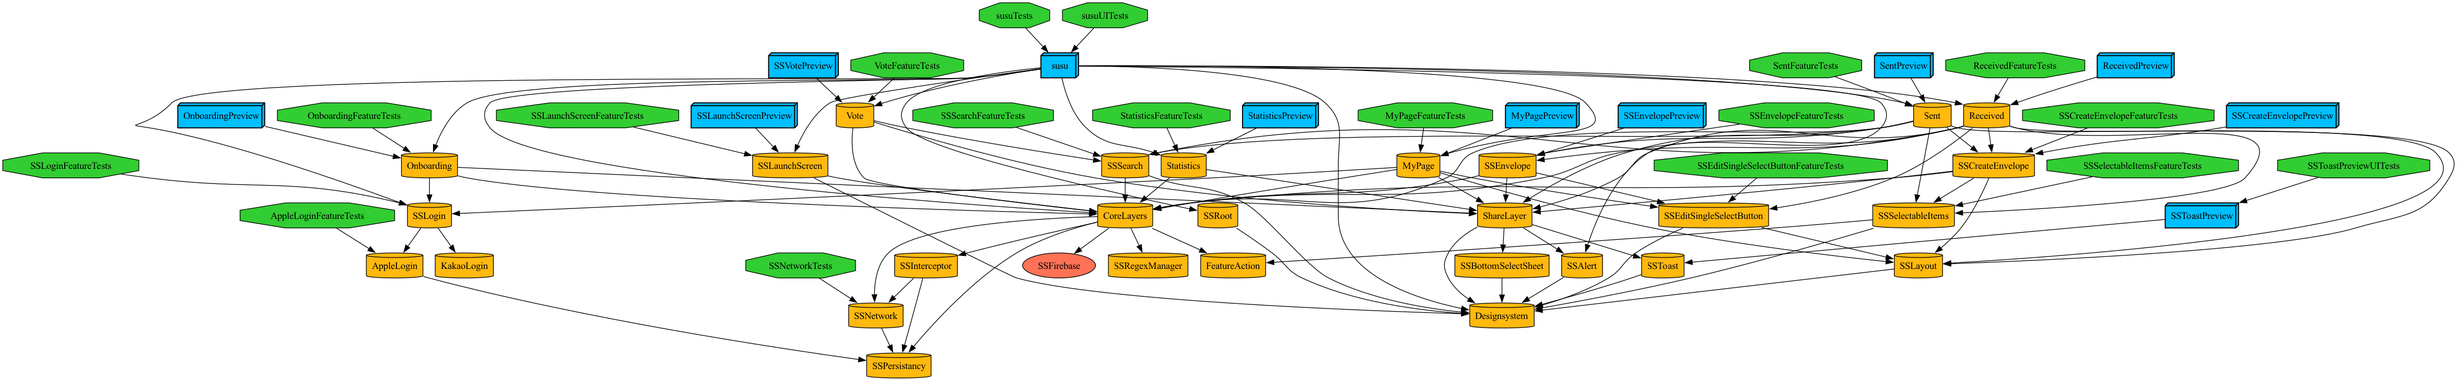
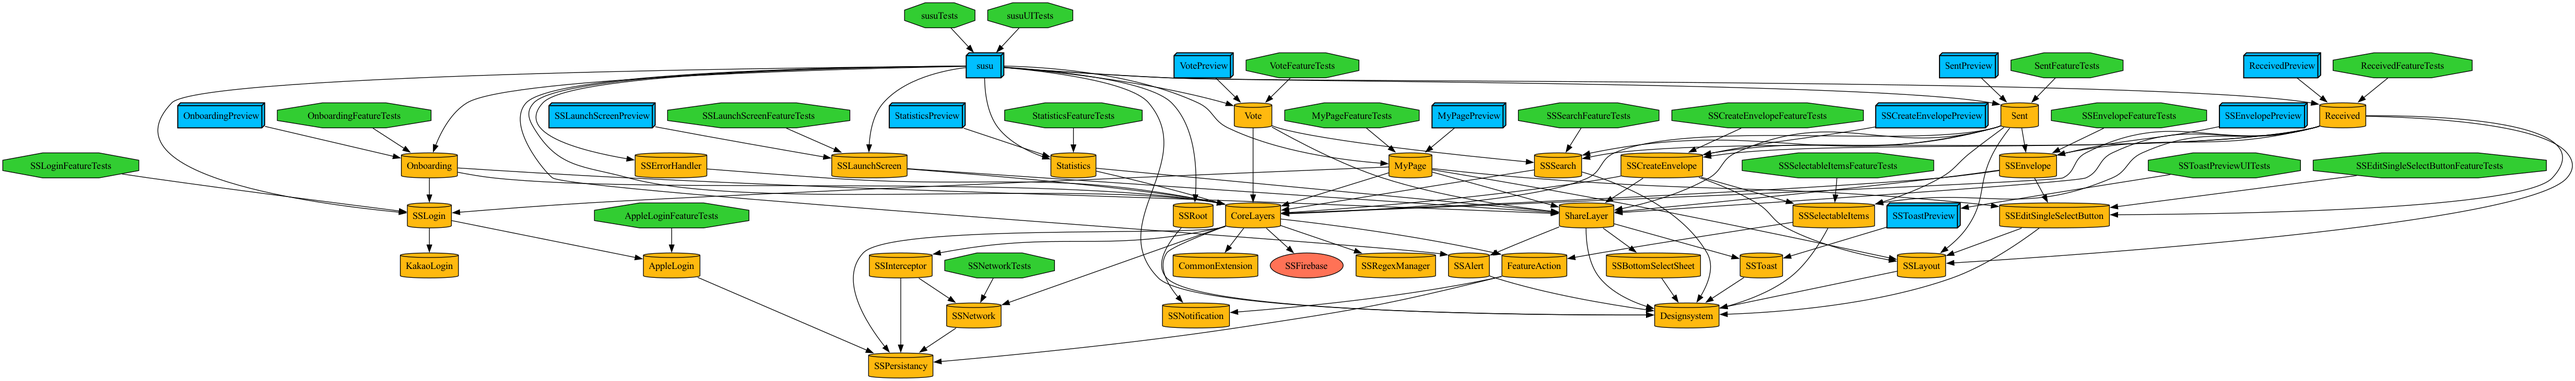
[Deploy] 1.0.5 버전 배포  (#596)
* [Feature] FireBaseanalytics Error Handler 작성 #594

* prj: update build version

* chore: apply swift-format

* feat: update graph, errorHandler feature dependencies

diff --git a/Projects/Feature/SSErrorHandler/Sources/FireBaseErrorHandler.swift b/Projects/Feature/SSErrorHandler/Sources/FireBaseErrorHandler.swift
@@ -1,0 +1,55 @@
+//
+//  FireBaseErrorHandler.swift
+//  SSErrorHandler
+//
+//  Created by MaraMincho on 9/26/24.
+//  Copyright © 2024 com.oksusu. All rights reserved.
+//
+
+import Combine
+import FirebaseAnalytics
+import Foundation
+import OSLog
+import SSNotification
+
+// MARK: - FireBaseErrorHandler
+
+public final class FireBaseErrorHandler {
+  public static let shared = FireBaseErrorHandler()
+  var subscription: AnyCancellable?
+  private init() {}
+
+  public func registerFirebaseLogSystem() {
+    subscription = NotificationCenter.default.publisher(for: SSNotificationName.logError)
+      .sink { @Sendable errorObjectOutput in
+        let errorObject = errorObjectOutput.object as? String
+        Self.sendErrorToFirebase(errorMessage: errorObject)
+      }
+  }
+
+  public func removeDiscordLogSystem() {
+    subscription = nil
+  }
+
+  @Sendable private static func sendErrorToFirebase(errorMessage message: String?) {
+    guard let message else {
+      return
+    }
+    Analytics.logEvent("iOS Error", parameters: ["description": message])
+  }
+}
+
+private extension String {
+  func splitByLength(_ length: Int) -> [String] {
+    var result: [String] = []
+    var currentIndex = startIndex
+
+    while currentIndex < endIndex {
+      let nextIndex = index(currentIndex, offsetBy: length, limitedBy: endIndex) ?? endIndex
+      result.append(String(self[currentIndex ..< nextIndex]))
+      currentIndex = nextIndex
+    }
+
+    return result
+  }
+}

diff --git a/Projects/App/Project.swift b/Projects/App/Project.swift
@@ -28,7 +28,7 @@ let project = Project.makeModule(
       "UILaunchStoryboardName": "LaunchScreen",
       "BGTaskSchedulerPermittedIdentifiers": "com.oksusu.susu.app",
       "CFBundleShortVersionString": "1.0.5",
-      "CFBundleVersion": "2024092531",
+      "CFBundleVersion": "2024092632",
       "UIUserInterfaceStyle": "Light",
       "ITSAppUsesNonExemptEncryption": "No",
       "AppstoreAPPID": "6503701515",

diff --git a/Projects/Feature/SSErrorHandler/Project.swift b/Projects/Feature/SSErrorHandler/Project.swift
@@ -6,9 +6,10 @@ let project = Project.makeModule(
   name: "SSErrorHandler",
   targets: .feature(
     .sSErrorHandler,
+    product: .framework,
     testingOptions: [],
     dependencies: [
-      .core(.sSNotification),
+      .core(.coreLayers),
     ],
     testDependencies: [],
     infoPlist: ["DISCORD_WEB_HOOK_URL": "$(DISCORD_WEB_HOOK_URL"]

diff --git a/Projects/Feature/SSErrorHandler/Sources/DiscordErrorHandler.swift b/Projects/Feature/SSErrorHandler/Sources/DiscordErrorHandler.swift
@@ -41,7 +41,7 @@ public final class DiscordErrorHandler {
       os_log("Discord Web Hook URL이 잘못되었습니다. 확인해주세요")
       return
     }
-    let messages = message.splitByLength(1500)
+    let messages = message.splitByLength(1800)
 
     Task {
       do {
